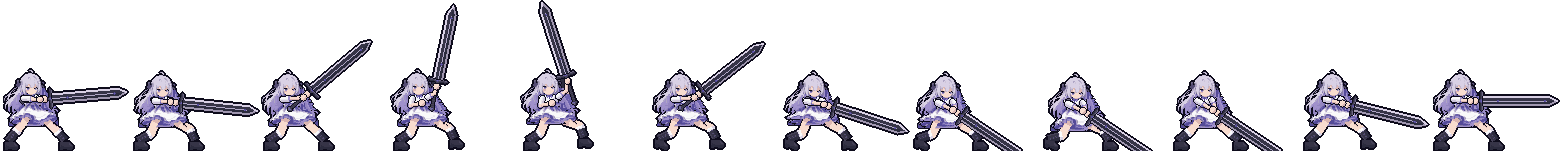
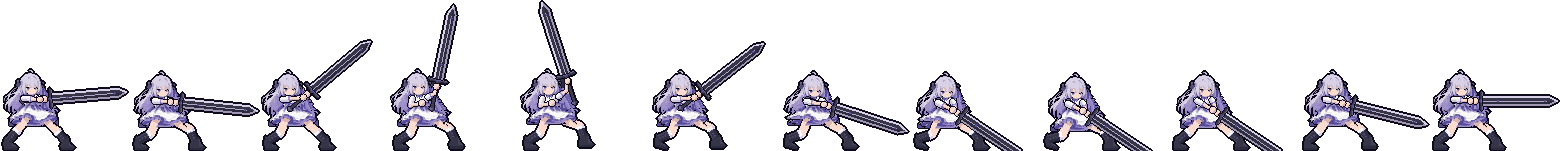
Step 15: continuous ankles (foot drawn with the shin), pixel-based planted check
Claude-Session: https://claude.ai/code/session_01HxjqkUSQep4dPnHwHokXph

diff --git a/swingkit/rig.py b/swingkit/rig.py
@@ -128,63 +128,38 @@ LEG_LEN = {k: (float(np.hypot(*np.subtract(v['knee'], v['hip']))),
                float(np.hypot(*np.subtract(v['ankle'], v['knee'])))) for k, v in LEG_NEUTRAL.items()}
 SOCK_LEN = 3.2
 
-# Hand-drawn boot feet (sprite space). The toe cap points OUTWARD (knees bend outward, so
-# the toes must too), the heel sits under the shaft, and an arch gap separates them. The
-# bottom outline is the ground row. Characters: '.' empty, 'O' outline, digits = palette index.
-LEFT_FOOT = (-3, 73, [          # (x of first column, y of first row, rows)
-    "...O2222222222O",
-    "..O23222222222O",
-    ".O233222222222O",
-    "O2332222222212O",
-    "O2222222221112O",
-    "O1111111111111O",
-    "O1111111111111O",
-    ".O11111O..O111O",
-    "..OOOOOO..OOOOO",
-])
-
-def _mirror(foot, axis):
-    x0, y0, rows = foot
-    w = len(rows[0])
-    return (axis - (x0 + w - 1), y0, [r[::-1] for r in rows])
-
-RIGHT_FOOT = _mirror(LEFT_FOOT, 66)     # left x=1..10 shaft maps onto right x=65..56
-
-def _heel_up(foot, toe_cols=4, lift=3):
-    """Heel-up variant built from the hand-drawn flat foot: each pixel column is raised by a
-    whole number of pixels, 0 at the toe rising to `lift` at the heel, so pixels stay crisp
-    and the toe keeps touching the ground row."""
-    x0, y0, rows = foot
-    h, w = len(rows), len(rows[0])
-    grid = [['.'] * w for _ in range(h + lift)]
-    for i in range(w):
-        up = 0 if i < toe_cols else int(round(lift * (i - toe_cols + 1) / (w - toe_cols)))
-        for j in range(h):
-            if rows[j][i] != '.':
-                grid[j + lift - up][i] = rows[j][i]
-    return (x0, y0 - lift, [''.join(r) for r in grid])
-
-# Rear (left) foot points FORWARD, toward the strike (user, 2026-09-28): mirror of the drawn
-# boot about its shaft, so the toe cap is on the right and the heel is at the back.
-REAR_FOOT = _mirror(LEFT_FOOT, 11)
-LEFT_FOOT_HEEL_UP = _mirror(_heel_up(LEFT_FOOT), 11)
+# Boot feet are drawn together with the shin as one shape (see _foot_mask), so the ankle is a
+# continuous curve. Both feet point forward (toward the strike, +x). Heel-up tilts the sole,
+# toe planted, with the ankle raised by HEEL_UP_ANKLE_LIFT.
 HEEL_UP_ANKLE_LIFT = 2.0      # the ankle rises with the heel (sprite px)
+FOOT_TOE_REACH = 9.0          # ankle to toe tip, horizontally
+HEEL_UP_TILT = 3.0            # heel raised this much above the toe when heel_up
 
-def _stamp_pixels(foot):
-    x0, y0, rows = foot
-    assert len({len(r) for r in rows}) == 1
-    px = []
-    for j, row in enumerate(rows):
-        for i, ch in enumerate(row):
-            if ch == '.': continue
-            px.append((x0 + i, y0 + j, OUT if ch == 'O' else int(ch)))
-    return px
-
-def _foot_stamps():
-    return dict(left=_stamp_pixels(REAR_FOOT), right=_stamp_pixels(RIGHT_FOOT),
-                left_heel_up=_stamp_pixels(LEFT_FOOT_HEEL_UP))
-
-FOOT = _foot_stamps()
+def _foot_mask(ankle, nb, rb, heel_up, ankle_to_sole):
+    """Pixels of the boot foot for a shin ending at `ankle` with half-width rb and normal nb.
+    Returns (mask, sole_y_at(x)) in canvas coordinates."""
+    from PIL import Image, ImageDraw
+    A = np.asarray(ankle, float)
+    e1, e2 = A + nb * rb, A - nb * rb
+    back, front = (e1, e2) if e1[0] < e2[0] else (e2, e1)
+    sole_toe = A[1] + ankle_to_sole + (HEEL_UP_ANKLE_LIFT if heel_up else 0.0)
+    sole_heel = sole_toe - (HEEL_UP_TILT if heel_up else 0.0)
+    x_heel = back[0] - 0.4
+    x_toe = A[0] + FOOT_TOE_REACH
+    poly = [back + (0, -0.8),
+            (x_heel - 0.9, (back[1] + sole_heel) / 2),
+            (x_heel - 0.4, sole_heel),
+            (x_toe - 1.0, sole_toe),
+            (x_toe + 0.4, sole_toe - 2.0),
+            (x_toe - 1.8, sole_toe - 4.2),
+            (front[0] + 2.0, A[1] + 3.0),
+            front + (0, -0.8)]
+    img = Image.new('L', (CW, CH), 0)
+    ImageDraw.Draw(img).polygon([(x + PX, y + PY) for x, y in poly], fill=1)
+    def sole_y(x):
+        t = min(max((x - x_heel) / max(x_toe - x_heel, 1e-6), 0.0), 1.0)
+        return sole_heel + (sole_toe - sole_heel) * t
+    return np.asarray(img).astype(bool), sole_y, x_toe
 
 def leg_ik(hip, ankle, L1, L2, side):
     """Two-bone IK: knee position for fixed thigh/shin lengths. `side` picks which way
@@ -231,17 +206,19 @@ def draw_leg(cv, name, hip=None, ankle=None, heel_up=False):
         return None
     pts = np.array([hip, knee, ankle])
     m = cv.part((pts[:, 0].min() - 6, pts[:, 1].min() - 6, pts[:, 0].max() + 6, pts[:, 1].max() + 6), f, outline=False)
-    # foot stamp, translated with the ankle (never rotated or scaled)
-    ref = np.array(v['ankle'], float)
-    if heel_up: ref = ref + np.array([0.0, -HEEL_UP_ANKLE_LIFT])
-    dx, dy = int(round(ankle[0] - ref[0])), int(round(ankle[1] - ref[1]))
-    stamp = FOOT[name + '_heel_up'] if heel_up else FOOT[name]
-    body_part = np.zeros(cv.C.shape, bool)
-    for x, y, c in stamp:
-        yy, xx = y + dy + PY, x + dx + PX
-        if 0 <= yy < CH and 0 <= xx < CW:
-            cv.C[yy, xx] = c
-            if c != OUT: body_part[yy, xx] = True
+    # foot: one shape with the shin, so the ankle is a continuous curve
+    # the flat sole's bottom edge sits on the feet row in the neutral pose, for each leg
+    ankle_to_sole = (FEET_ROW - 0.5) - v['ankle'][1]
+    fm, sole_y, x_toe = _foot_mask(ankle, nb, rb, heel_up, ankle_to_sole)
+    body_part = fm & ~m
+    ys, xs = np.nonzero(body_part)
+    for yy, xx in zip(ys, xs):
+        x, y = xx - PX + 0.5, yy - PY + 0.5
+        sy = sole_y(x)
+        if y > sy - 2.0: c = 1                                   # sole
+        elif x > x_toe - 5.0 and y < sy - 3.2: c = 3             # lit toe cap
+        else: c = 2
+        cv.C[yy, xx] = c
     m = m | body_part
     ring = ndimage.binary_dilation(m) & ~m
     cv.C[ring & ((cv.C < 0) | ~m)] = OUT

diff --git a/swingkit/checks.py b/swingkit/checks.py
@@ -35,20 +35,21 @@ def check_leg_lengths():
 
 
 def check_feet_planted():
-    """Planted boots must sit exactly on the ground: the rear foot in every frame and the
-    front foot whenever it is marked planted. A heel-up rear foot is planted on its toe, so its
-    ankle row must equal the neutral row minus the heel lift."""
+    """Planted boots must sit exactly on the ground, measured on the drawn pixels: the lowest
+    filled row of the boot is the row just above the feet row (the outline is on the feet
+    row). Applies to the rear foot in every frame (a heel-up rear foot stands on its toe)
+    and to the front foot whenever it is marked planted."""
     bad = []
+    want = rig.PY + rig.FEET_ROW - 1
     for i, fr in enumerate(anim.FRAMES):
         _, _, parts = anim.render_character(i)
         for name in ('left', 'right'):
             if name == 'right' and not fr.get('front_planted', True):
                 continue
-            j = parts['legs'][name]
-            ref = rig.LEG_NEUTRAL[name]['ankle'][1] - (rig.HEEL_UP_ANKLE_LIFT if j.get('heel_up') else 0)
-            dy = int(round(j['ankle'][1] - ref))
-            if dy != 0:
-                bad.append(f'frame {i+1} {name} foot off the ground by {-dy} px')
+            m = parts['legs'][name]['mask']
+            low = int(np.nonzero(m.any(1))[0].max())
+            if low != want:
+                bad.append(f'frame {i+1} {name} sole {want - low:+d} px from the ground')
     return not bad, 'planted feet on the ground' if not bad else '; '.join(bad)
 
 

diff --git a/Current_Work.md b/Current_Work.md
@@ -187,21 +187,22 @@ frames or fewer.
 - Signed off: Claude, 2026-09-28
 
 ### Step 15. Fix the ankles
-- [ ] User feedback (2026-09-28): the ankles look broken. The foot is a separate stamp under the
+- [x] User feedback (2026-09-28): the ankles look broken. The foot is a separate stamp under the
       shin, leaving a notch and an outline jog where they meet.
-- [ ] Draw the foot together with the shin as one outlined boot: heel flares back from the shin's
+- [x] Draw the foot together with the shin as one outlined boot: heel flares back from the shin's
       rear edge, instep flows forward from its front edge, toe forward, sole on the ground; heel-up
       tilts the sole with the toe planted.
 - Acceptance: continuous ankle curve with no notch in every frame; planted and leg-length checks
   pass; all checks and tests pass.
-- Status: IN PROGRESS (Claude, 2026-09-28)
-- Result:
-- Signed off:
+- Status: DONE
+- Result: The foot is no longer a separate stamp: `rig._foot_mask` draws it with the shin as one outlined shape (heel flares from the shin's back edge, instep from its front edge, toe forward, sole band on the ground; heel-up tilts the sole with the toe planted). Continuous ankle in every frame. Found and fixed a 1 px float on the planted front boot (each leg now uses its own ankle-to-sole distance), and the planted-feet check now measures drawn pixels instead of ankle rows so this cannot slip through again. The old foot stamps (`LEFT_FOOT` etc.) are removed. docs preview refreshed; all checks and tests pass.
+- Signed off: Claude, 2026-09-28
 
 ## Open questions
 - None.
 
 ## Log
+- 2026-09-28: Step 15 (ankles) done. Feet are drawn with the shin in `rig._foot_mask`; the hand-drawn foot grids are gone. (Claude)
 - 2026-09-28: Step 14 done: both feet and both knees now point toward the strike. Do not reintroduce outward toes on the back leg. (Claude)
 - 2026-09-28: Step 13 done. All approved follow-ups (steps 8 to 13) are complete; nothing is waiting on approval. (Claude)
 - 2026-09-28: Step 12 (dip) done. Frames are referenced by name everywhere now; never use hard-coded frame indices. (Claude)

diff --git a/README.md b/README.md
@@ -77,7 +77,8 @@ dust use simple deterministic physics; camera shake moves distant layers less.
 Per-frame motion tables live in `swingkit/anim.py`: `HIPS` (hip offset and lean), `FEET` (front
 foot), `REAR_HEEL_UP`, `CLOTH` (skirt hem), `HAIR` (sway and lift), `GAZE` (eye direction) and
 `SHOULDERS` (shoulder drive and sleeve squash). Frames are always looked up by name
-(`anim.by_name`), never by index. Boot feet are hand-drawn grids in `swingkit/rig.py`.
+(`anim.by_name`), never by index. Each boot foot is drawn together with its shin as one shape
+(`rig._foot_mask`), so the ankle is continuous; both feet point toward the strike.
 
 ## Project layout
 
